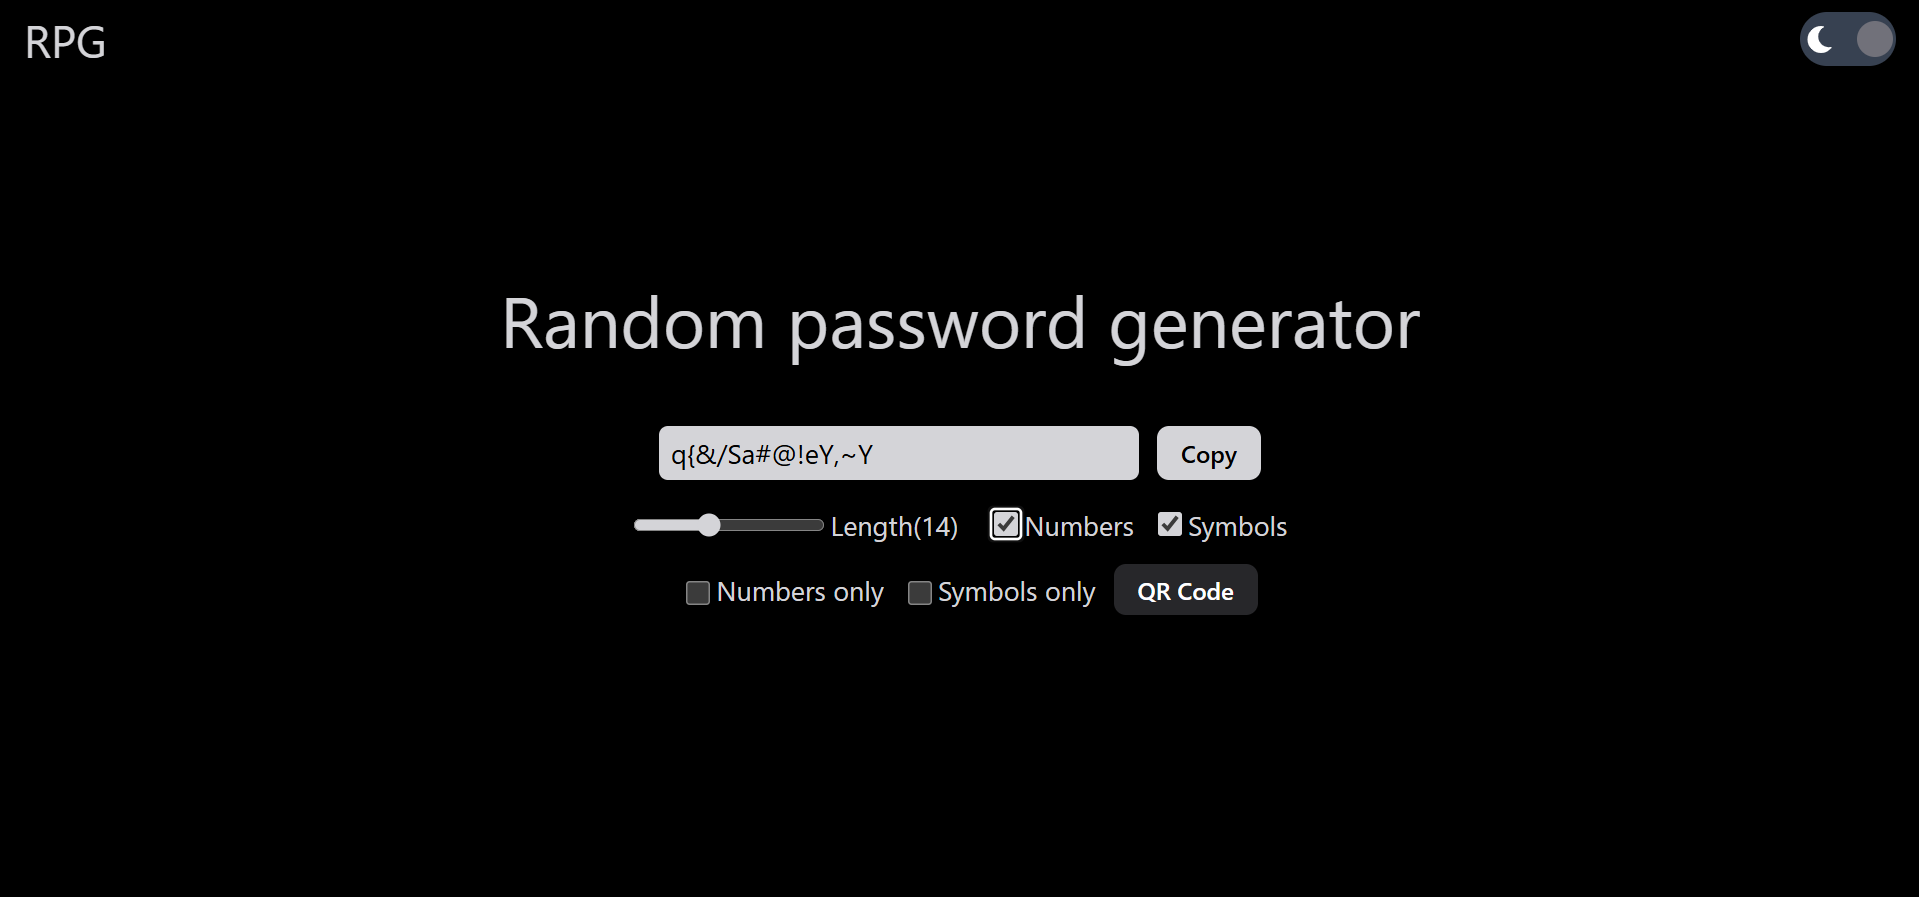
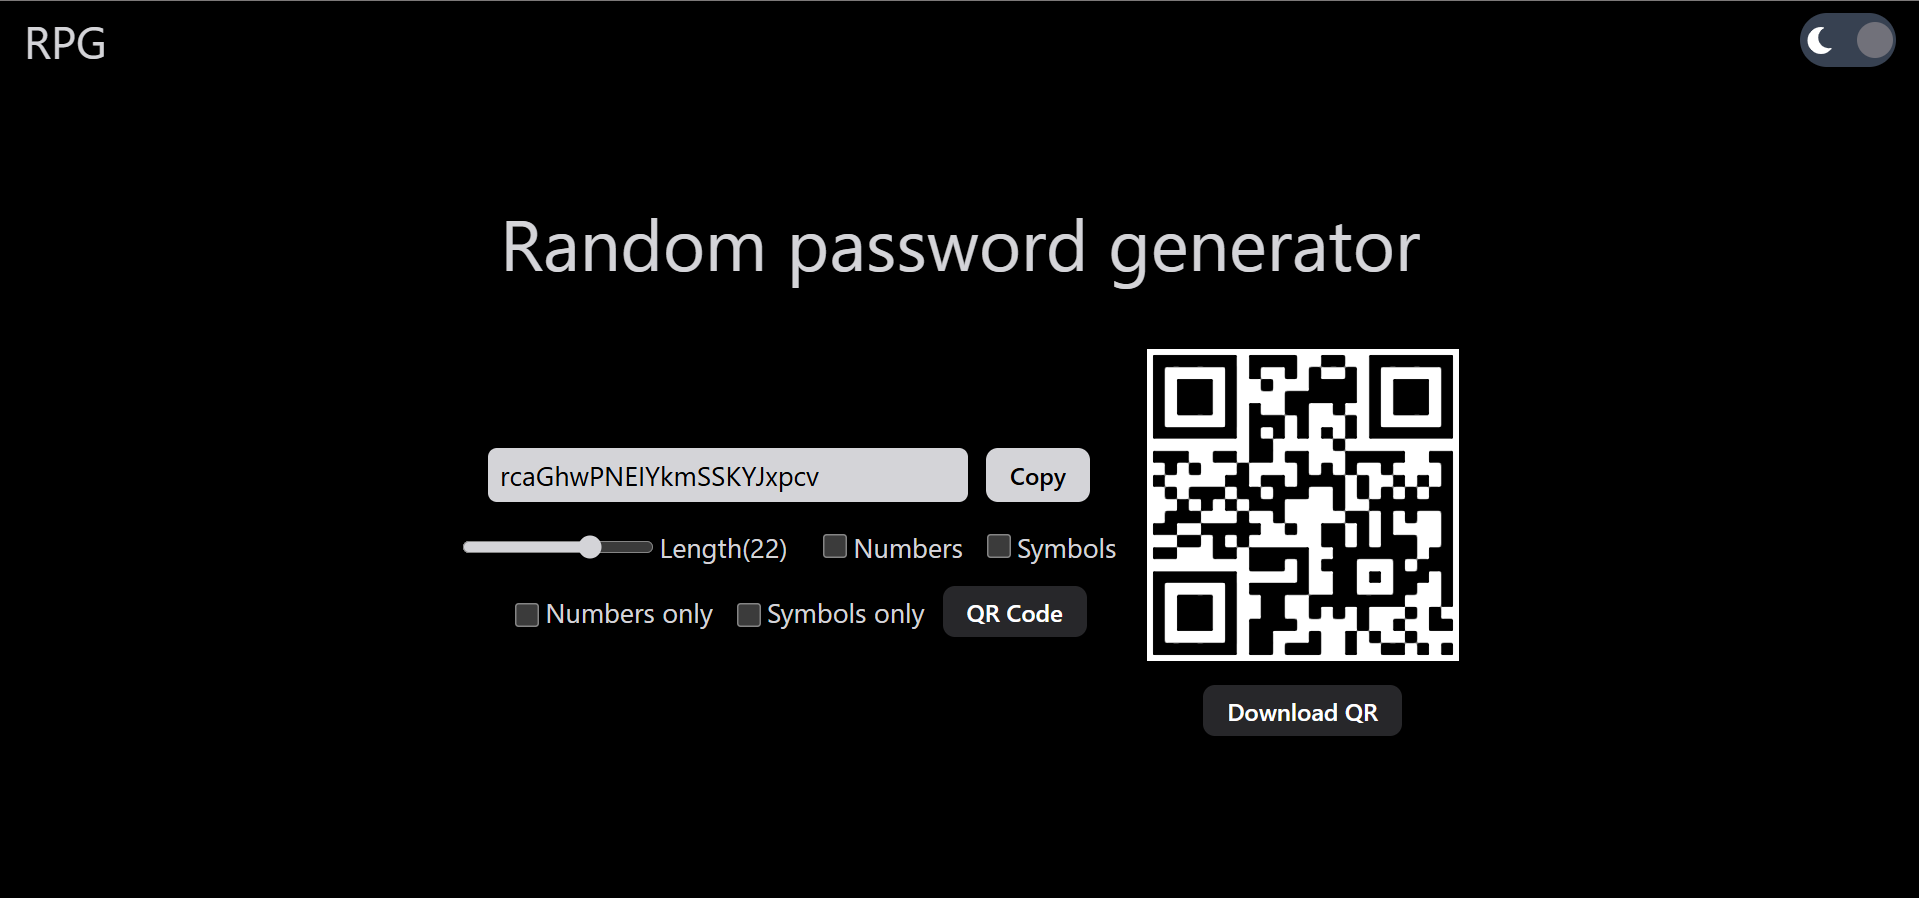
upadeted project img

Changed region(s): [[0.246, 0.2497, 0.7686, 0.8428], [0.0307, 0.0312, 0.0615, 0.0624]]

diff --git a/src/components/About.jsx b/src/components/About.jsx
@@ -13,7 +13,7 @@ function About() {
       <div className=' text-3xl pb-5'>About Me</div> 
       <div className=' sm:w-[480px] h-[194px] sm:h-[166px] text-lg sm:text-xl px-5 '> 
         <TypedText
-        strings={["Hi, i am a ethusiaistic developer from india currently in third year B.Tech in an engineering college. i like designing and developing and bringing beutiful and functional websites to life!. Also intrested and implementing in Data science and Artificial intelligence."]}
+        strings={["I am an enthusiastic developer from India, currently pursuing a B.Tech degree in my third year at an engineering college. I have a passion for designing and developing visually appealing and highly functional websites. Additionally, I am keenly interested in data science and artificial intelligence and actively explore their implementation in real-world projects."]}
         typeSpeed={20}
         backSpeed={0}
         loop={false}

diff --git a/src/components/Projects.jsx b/src/components/Projects.jsx
@@ -28,7 +28,7 @@ function Projects() {
             </div>
             <div className='projcontainer'>
               <div className='text-2xl pt-3 text-primary'>Random Password Generator</div>
-              <div><img src="/images/news.png" className='w-12/12 rounded-md object-contain' alt="" /></div>
+              <div><img src="/images/rpg.png" className='w-12/12 rounded-md object-contain' alt="" /></div>
               <div className='text-lg pl-3 pb-1 text-primary' >Generates and customizes random password according to users need (ReactJS, TailwindCSS)</div>
               <div className=' flex gap-4'>
                 <button className='projbtn'> <a href="https://randompasswordgen1.netlify.app" target='blank'>Live</a></button>
